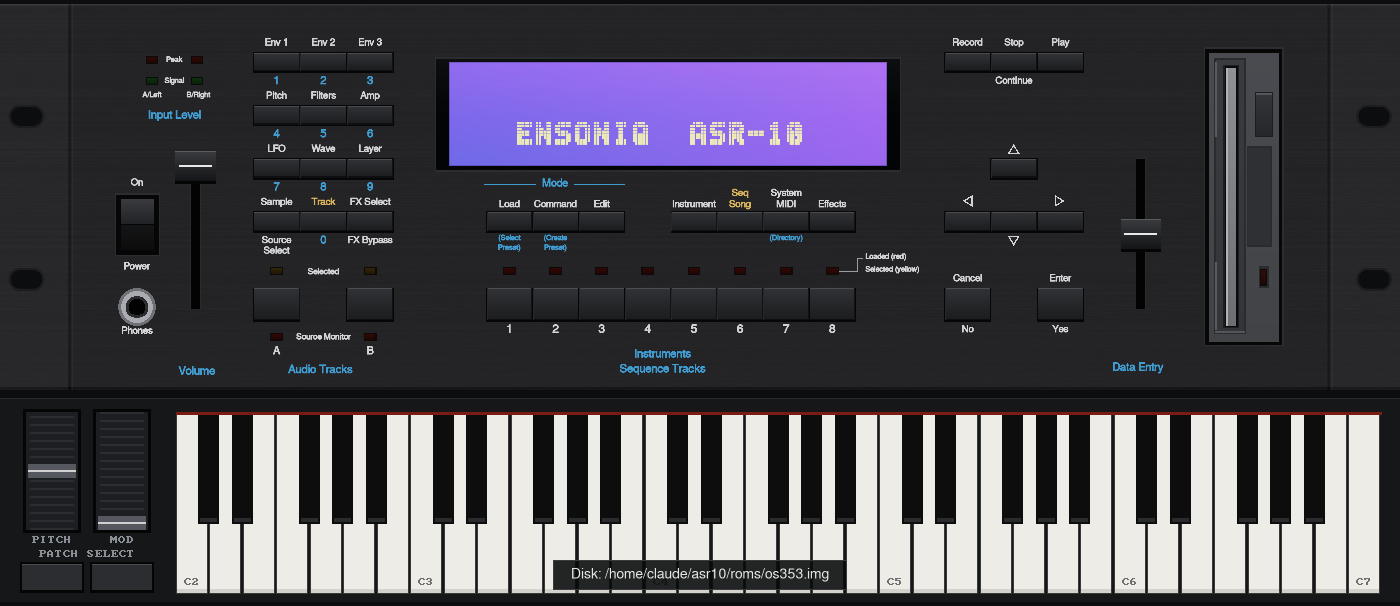
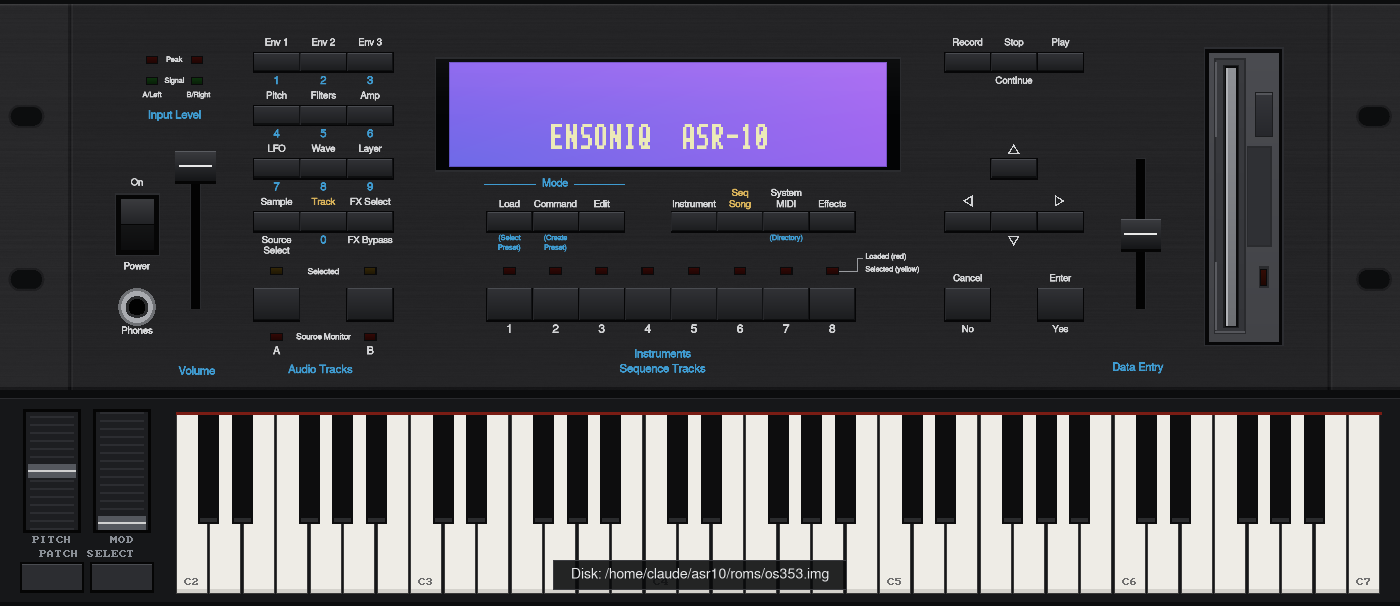
LCD: true 240x58 pixel layout and the module's font (5x7 glyphs drawn two pixels thick, 6x14 pixels, 8 pixel pitch); pixel grid shows only when the pixels are large on screen
Claude-Session: https://claude.ai/code/session_01NnKiJNDbeJ6gMPzNdptUdT

Changed region(s): [[0.3379, 0.1782, 0.6143, 0.297]]

diff --git a/src/lcd.cpp b/src/lcd.cpp
@@ -3,6 +3,7 @@
 #include "panel.h"
 #include "vfd_art.h"
 #include <algorithm>
+#include <cmath>
 #include <cstring>
 #include <functional>
 #include <string>
@@ -28,32 +29,39 @@ static const uint8_t FONT5X7[64][5] = {   // codes $20-$5F, one byte per column 
     {0x02,0x04,0x08,0x10,0x20}, {0x00,0x41,0x41,0x7F,0x00}, {0x04,0x02,0x01,0x02,0x04}, {0x40,0x40,0x40,0x40,0x40}
 };
 
-constexpr uint32_t TEXT = 0xeceab8;                 // lit dots (pale yellow-green)
+constexpr uint32_t TEXT = 0xeceab8;                 // lit pixels (pale yellow-green)
 constexpr uint32_t BACK_TL = 0x8d66ee, BACK_TR = 0xab6cf3, BACK_BL = 0x6e6ae7, BACK_BR = 0x9b66ee;
 
-// the big text line: 22 cells of 5x7 dots, drawn bold (6x8 dots), slightly taller than wide
-constexpr float PITCH = 26.0f, LEFT = 13.0f, TOP = 80.0f, DW = 3.5f, DH = 3.9f;
-// legends: small dots (5x7 letters, 7 dots per letter cell)
-constexpr float LU = 2.5f;
-constexpr float ROW0 = 8.0f, ROW_STEP = 27.0f;
-constexpr int DU = 8;                               // texels per dot in the textures
+// The module is a 240 x 58 pixel graphic LCD with square pixels (measured on photos of it).
+// The text line is 22 cells of 8 x 14 pixels: the 5x7 character set drawn two pixels thick
+// (every dot is two pixels wide and two tall), 6 x 14 pixels of glyph and a 2 pixel gap.
+// The legends use the same character set at 1 pixel thickness, 8 pixels per letter.
+constexpr int PX_W = 240, PX_H = 58;
+constexpr float CELL = LcdRenderer::WIDTH / PX_W;       // logical px per LCD pixel
+constexpr int TEXT_X = 32, TEXT_Y = 34;                 // first text cell
+constexpr int LEG_LEFT = 5, LEG_MID = 64, LEG_RIGHT = 227, LEG_COL = 56;   // legend columns
+constexpr int LEG_ROW0 = 3, LEG_STEP = 11;              // legend rows
+constexpr int DU = 4;                                   // texels per LCD pixel in the textures
 
 void colour(SDL_Renderer *R, uint32_t c, uint8_t a = 255) { SDL_SetRenderDrawColor(R, c >> 16, (c >> 8) & 255, c & 255, a); }
 
 const uint8_t *glyph(unsigned char ch) { return (ch >= 0x20 && ch < 0x60) ? FONT5X7[ch - 0x20] : FONT5X7[0]; }
 bool dot5x7(const uint8_t *g, int c, int r) { return c >= 0 && c < 5 && r >= 0 && r < 7 && (g[c] >> r & 1); }
-// bold: every dot also lights its right and lower neighbours (6x8 dots, strokes two dots thick)
-bool dot_bold(const uint8_t *g, int c, int r) {
-    return dot5x7(g, c, r) || dot5x7(g, c - 1, r) || dot5x7(g, c, r - 1) || dot5x7(g, c - 1, r - 1);
-}
+// the text line's pixels: 6 x 14, each dot of the 5x7 glyph is 2 pixels wide and 2 tall
+bool px_big(const uint8_t *g, int c, int r) { return dot5x7(g, c, r / 2) || dot5x7(g, c - 1, r / 2); }
 
-// a w x h dot matrix as a white alpha texture, DU x DU texels per dot with a thin gap
-SDL_Texture *dots_texture(SDL_Renderer *R, int w, int h, const std::function<bool(int, int)> &on) {
+// a w x h dot matrix as a white alpha texture, DU x DU texels per dot. grid = false: solid
+// pixels; grid = true: only the thin gaps between the pixels (the dot grid you see on the module,
+// drawn on top when the pixels are large enough on screen)
+SDL_Texture *dots_texture(SDL_Renderer *R, int w, int h, const std::function<bool(int, int)> &on, bool grid = false) {
     const int tw = w * DU, th = h * DU;
     std::vector<uint32_t> px((size_t)tw * th, 0x00ffffff);
     for (int c = 0; c < w; c++) for (int r = 0; r < h; r++) {
         if (!on(c, r)) continue;
-        for (int y = 0; y < DU - 1; y++) for (int x = 0; x < DU - 1; x++) px[(size_t)(r * DU + y) * tw + c * DU + x] = 0xffffffff;
+        for (int y = 0; y < DU; y++) for (int x = 0; x < DU; x++) {
+            bool gap = x == DU - 1 || y == DU - 1;
+            if (!grid || gap) px[(size_t)(r * DU + y) * tw + c * DU + x] = 0xffffffff;
+        }
     }
     SDL_Texture *t = SDL_CreateTexture(R, SDL_PIXELFORMAT_ARGB8888, SDL_TEXTUREACCESS_STATIC, tw, th);
     if (!t) return nullptr;
@@ -71,8 +79,10 @@ LcdRenderer::~LcdRenderer() {
     for (auto *t : big) if (t) SDL_DestroyTexture(t);
     for (auto *t : small_) if (t) SDL_DestroyTexture(t);
     for (auto *t : inv) if (t) SDL_DestroyTexture(t);
-    if (meter) SDL_DestroyTexture(meter);
-    if (underline) SDL_DestroyTexture(underline);
+    for (auto *t : big_g) if (t) SDL_DestroyTexture(t);
+    for (auto *t : small_g) if (t) SDL_DestroyTexture(t);
+    for (auto *t : inv_g) if (t) SDL_DestroyTexture(t);
+    for (SDL_Texture *t : { meter, underline, meter_g, underline_g }) if (t) SDL_DestroyTexture(t);
 }
 
 bool LcdRenderer::init(SDL_Renderer *r) {
@@ -80,20 +90,26 @@ bool LcdRenderer::init(SDL_Renderer *r) {
     SDL_SetHint(SDL_HINT_RENDER_SCALE_QUALITY, "1");
     for (int ch = 0; ch < 64; ch++) {
         const uint8_t *g = FONT5X7[ch];
-        big[ch] = dots_texture(R, 6, 8, [&](int c, int rr) { return dot_bold(g, c, rr); });
-        small_[ch] = dots_texture(R, 5, 7, [&](int c, int rr) { return dot5x7(g, c, rr); });
-        if (!big[ch] || !small_[ch]) return false;
+        auto fb = [&](int c, int rr) { return px_big(g, c, rr); };
+        auto fs = [&](int c, int rr) { return dot5x7(g, c, rr); };
+        big[ch] = dots_texture(R, 6, 14, fb); big_g[ch] = dots_texture(R, 6, 14, fb, true);
+        small_[ch] = dots_texture(R, 5, 7, fs); small_g[ch] = dots_texture(R, 5, 7, fs, true);
+        if (!big[ch] || !small_[ch] || !big_g[ch] || !small_g[ch]) return false;
     }
-    meter = dots_texture(R, 6, 8, [](int c, int) { return c >= 1 && c <= 4; });
-    underline = dots_texture(R, 6, 1, [](int, int) { return true; });
+    auto fm = [](int c, int) { return c >= 1 && c <= 4; };
+    auto fu = [](int, int) { return true; };
+    meter = dots_texture(R, 6, 14, fm); meter_g = dots_texture(R, 6, 14, fm, true);
+    underline = dots_texture(R, 6, 2, fu); underline_g = dots_texture(R, 6, 2, fu, true);
     const int n = (int)(sizeof(VFD_LEGENDS) / sizeof(VFD_LEGENDS[0]));
     for (int i = 0; i < n && i < 32; i++) {            // the inverted legends: a lit box, the letters cut out
         const char *t = VFD_LEGENDS[i].text; const int len = (int)strlen(t);
-        inv[i] = dots_texture(R, len * 7, 9, [&](int c, int rr) {
-            int ch = c / 7, gx = c % 7 - 1, gy = rr - 1;
+        auto fi = [&](int c, int rr) {
+            int ch = (c - 1) / 8, gx = (c - 1) % 8, gy = rr - 1;
+            if (c == 0) return true;
             return !(gx >= 0 && gx < 5 && gy >= 0 && gy < 7 && dot5x7(glyph((unsigned char)t[ch]), gx, gy));
-        });
-        if (!inv[i]) return false;
+        };
+        inv[i] = dots_texture(R, len * 8 + 1, 9, fi); inv_g[i] = dots_texture(R, len * 8 + 1, 9, fi, true);
+        if (!inv[i] || !inv_g[i]) return false;
     }
     return true;
 }
@@ -122,7 +138,7 @@ void LcdRenderer::draw(const Panel &p, float x, float y, uint32_t ticks, float s
 
     // ---- annunciators: which legends are lit, and where they go
     // The mode legend of the first column (LOAD / CMD / EDIT) is inverted at the top left. The
-    // other lit legends of the left group are stacked in two rows from x = 150; those of the
+    // other lit legends of the left group are stacked in two rows from pixel 64; those of the
     // right group (ENV ... STOP, AMP ... CLOCK) likewise from the right edge.
     std::vector<Leg> left, right;
     int mode = -1; bool mode_on = false;
@@ -136,49 +152,51 @@ void LcdRenderer::draw(const Panel &p, float x, float y, uint32_t ticks, float s
         if (first_col) { mode = i; mode_on = on; }
         else (l.group == 0 ? left : right).push_back({ i, on });
     }
-    const float u = LU * s;
-    auto legend_w = [&](const char *t) { return (float)strlen(t) * 7 * u; };
-    auto draw_legend = [&](int idx, float lx, float ly, bool inverted) {
+    const float u = CELL * s;                               // one LCD pixel on screen
+    // the pixel grid (gaps between the lit pixels) only shows when the pixels are big on the real screen
+    float sx = 1, sy = 1; SDL_RenderGetScale(R, &sx, &sy);
+    const float gridA = std::min(0.8f, std::max(0.0f, (u * sx - 2.2f) / 3.5f));
+    auto blit = [&](SDL_Texture *solid, SDL_Texture *grid, const SDL_FRect &d) {
+        tint(solid, TEXT); SDL_RenderCopyF(R, solid, nullptr, &d);
+        if (gridA > 0.02f) {
+            SDL_SetTextureColorMod(grid, 0x7a, 0x63, 0xe0); SDL_SetTextureAlphaMod(grid, (Uint8)(gridA * 255));
+            SDL_RenderCopyF(R, grid, nullptr, &d);
+        }
+    };
+    auto legend_w = [&](const char *t) { return (float)(strlen(t) * 8 + 1) * u; };
+    auto draw_legend = [&](int idx, float px, int row, bool inverted) {   // px = left edge in LCD pixels
         const char *t = VFD_LEGENDS[idx].text;
+        const float lx = x + px * u, ly = y + (float)(LEG_ROW0 + LEG_STEP * row) * u;
         if (inverted) {
             SDL_FRect d{ lx, ly, legend_w(t), 9 * u };
-            tint(inv[idx], TEXT); SDL_RenderCopyF(R, inv[idx], nullptr, &d);
+            blit(inv[idx], inv_g[idx], d);
         } else {
             for (size_t i = 0; t[i]; i++) {
                 unsigned char ch = (unsigned char)t[i];
-                SDL_Texture *tx = small_[(ch >= 0x20 && ch < 0x60) ? ch - 0x20 : 0];
-                SDL_FRect d{ lx + ((float)i * 7 + 1) * u, ly + u, 5 * u, 7 * u };
-                tint(tx, TEXT); SDL_RenderCopyF(R, tx, nullptr, &d);
+                int gi = (ch >= 0x20 && ch < 0x60) ? ch - 0x20 : 0;
+                SDL_FRect d{ lx + (float)(1 + i * 8) * u, ly + u, 5 * u, 7 * u };
+                blit(small_[gi], small_g[gi], d);
             }
         }
     };
-    if (mode >= 0 && mode_on) draw_legend(mode, x + 10 * s, y + ROW0 * s, true);
-    const float colw = 118 * s;
-    for (size_t k = 0; k < left.size(); k++) {
-        if (!left[k].on) continue;
-        draw_legend(left[k].idx, x + 150 * s + (float)(k / 2) * colw, y + (ROW0 + ROW_STEP * (float)(k % 2)) * s, false);
-    }
-    for (size_t k = 0; k < right.size(); k++) {
-        if (!right[k].on) continue;
-        float lx = x + (WIDTH - 10) * s - (float)(k / 2) * colw - legend_w(VFD_LEGENDS[right[k].idx].text);
-        draw_legend(right[k].idx, lx, y + (ROW0 + ROW_STEP * (float)(k % 2)) * s, false);
-    }
+    if (mode >= 0 && mode_on) draw_legend(mode, (float)LEG_LEFT, 0, true);
+    for (size_t k = 0; k < left.size(); k++)
+        if (left[k].on) draw_legend(left[k].idx, (float)(LEG_MID + LEG_COL * (int)(k / 2)), (int)(k % 2), false);
+    for (size_t k = 0; k < right.size(); k++)
+        if (right[k].on) {
+            float w = legend_w(VFD_LEGENDS[right[k].idx].text) / u;
+            draw_legend(right[k].idx, (float)(LEG_RIGHT - LEG_COL * (int)(k / 2)) - w, (int)(k % 2), false);
+        }
 
     // ---- the text line
     for (int i = 0; i < Panel::COLS; i++) {
-        const float cx = x + (LEFT + PITCH * i) * s, cy = y + TOP * s;
+        const float cx = x + (float)(TEXT_X + 8 * i) * u, cy = y + (float)TEXT_Y * u;
         unsigned char ch = (unsigned char)p.disp[i];
-        SDL_Texture *tx = nullptr;
-        if (ch == ' ' && i < p.meter) tx = meter;           // level meter: a lit bar
-        else if (ch > ' ' && ch < 0x60) tx = big[ch - 0x20];
-        if (tx) {
-            SDL_FRect d{ cx, cy, 6 * DW * s, 8 * DH * s };
-            tint(tx, TEXT); SDL_RenderCopyF(R, tx, nullptr, &d);
-        }
-        if (p.attr[i] & 3) {                                // underline / edit cursor
-            SDL_FRect d{ cx, cy + (8 * DH + 1.0f) * s, 6 * DW * s, DH * 0.8f * s };
-            tint(underline, TEXT); SDL_RenderCopyF(R, underline, nullptr, &d);
-        }
+        SDL_Texture *tx = nullptr, *tg = nullptr;
+        if (ch == ' ' && i < p.meter) { tx = meter; tg = meter_g; }          // level meter: a lit bar
+        else if (ch > ' ' && ch < 0x60) { tx = big[ch - 0x20]; tg = big_g[ch - 0x20]; }
+        if (tx) blit(tx, tg, SDL_FRect{ cx, cy, 6 * u, 14 * u });
+        if (p.attr[i] & 3) blit(underline, underline_g, SDL_FRect{ cx, cy + 16 * u, 6 * u, 2 * u });   // underline / edit cursor
     }
     SDL_SetRenderDrawBlendMode(R, old);
 }

diff --git a/src/lcd.h b/src/lcd.h
@@ -13,10 +13,11 @@ public:
     bool init(SDL_Renderer *r);                 // builds the dot-matrix textures
     // x,y = top-left of the screen; s = scale (1 = WIDTH x HEIGHT logical px)
     void draw(const Panel &p, float x, float y, uint32_t ticks, float s);
-    static constexpr float WIDTH = 590, HEIGHT = 140;
+    static constexpr float WIDTH = 590, HEIGHT = 142.6f;   // 240 x 58 LCD pixels
     ~LcdRenderer();
 
 private:
     SDL_Renderer *R = nullptr;
     SDL_Texture *big[64] = {}, *small_[64] = {}, *inv[32] = {}, *meter = nullptr, *underline = nullptr;
+    SDL_Texture *big_g[64] = {}, *small_g[64] = {}, *inv_g[32] = {}, *meter_g = nullptr, *underline_g = nullptr;   // the pixel grid
 };
